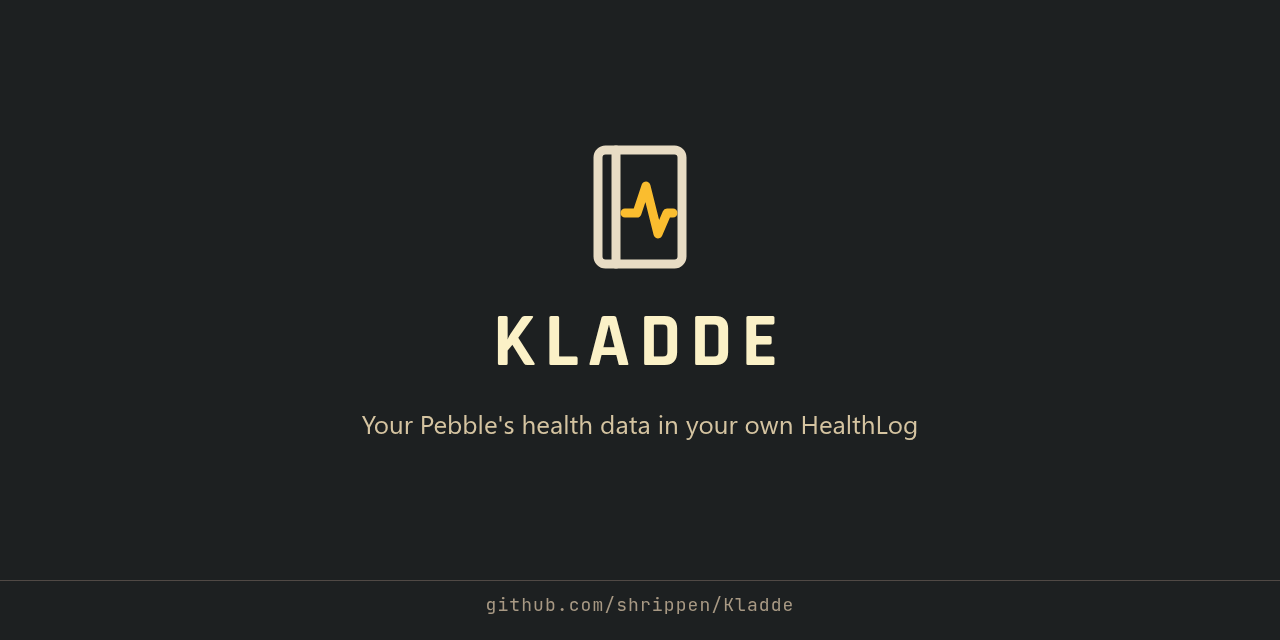
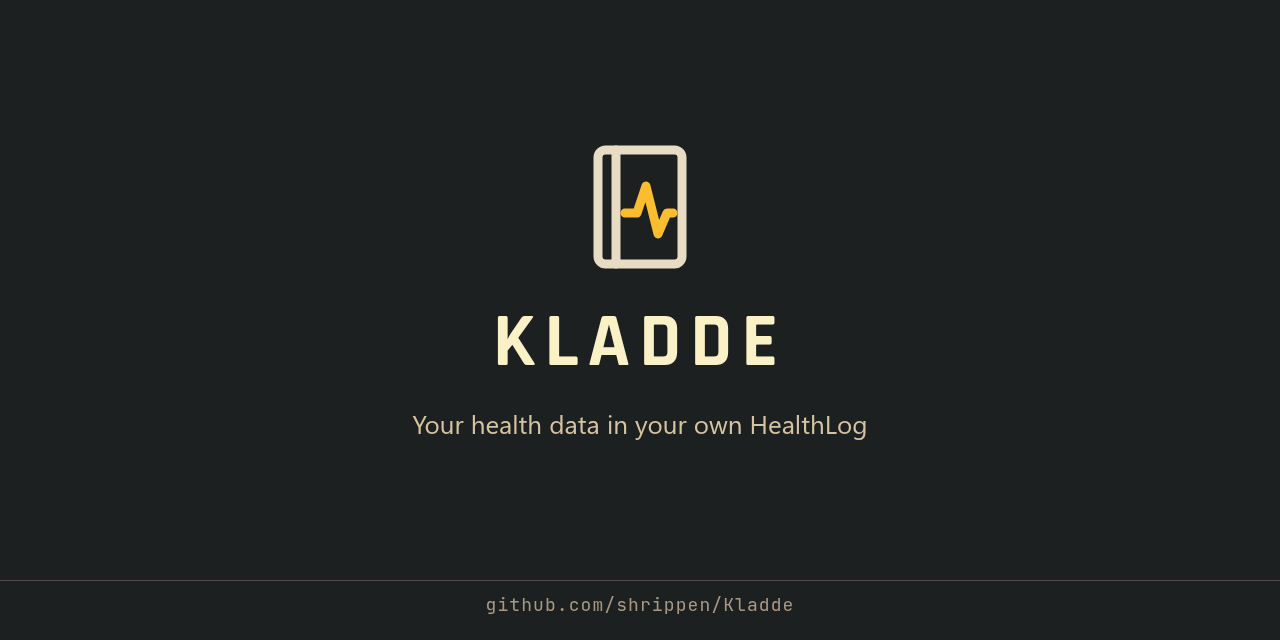
Datenquellen im Text (#10)
Android: Health Connect (nur Pebble-App), Plasma Mobile später direkt von der Pebble; Strecke und Ruhepuls schreibt die Pebble-App nicht. Dazu die Review-Korrekturen aus #9.

Changed region(s): [[0.2812, 0.6562, 0.7188, 0.6875]]

diff --git a/docs/index.html b/docs/index.html
@@ -3,10 +3,10 @@
 <head>
 <meta charset="utf-8">
 <meta name="viewport" content="width=device-width,initial-scale=1">
-<title>Kladde — your Pebble's health data in your own HealthLog</title>
-<meta name="description" content="An Android app that brings what your Pebble writes to Health Connect into your own HealthLog instance, in the background, and shows your values on the phone.">
-<meta property="og:title" content="Kladde — your Pebble's health data in your own HealthLog">
-<meta property="og:description" content="An Android app that brings what your Pebble writes to Health Connect into your own HealthLog instance, in the background, and shows your values on the phone.">
+<title>Kladde — your health data in your own HealthLog</title>
+<meta name="description" content="Brings your health data into your own HealthLog instance, in the background: on Android from Health Connect, on Plasma Mobile (later) straight from the Pebble.">
+<meta property="og:title" content="Kladde — your health data in your own HealthLog">
+<meta property="og:description" content="Brings your health data into your own HealthLog instance, in the background: on Android from Health Connect, on Plasma Mobile (later) straight from the Pebble.">
 <meta property="og:image" content="https://shrippen.github.io/Kladde/social-preview.png">
 <meta property="og:image:width" content="1280">
 <meta property="og:image:height" content="640">
@@ -39,8 +39,8 @@
   <img class="hero-wm" src="icon-mono.svg" alt="" aria-hidden="true">
   <div class="hero-main">
     <h1>Kladde</h1>
-    <p class="tagline" lang="en">Kladde brings what your Pebble writes to Health Connect into your own HealthLog instance: steps, heart rate, resting heart rate and sleep, in the background, without a cloud in between. On the phone it shows your values and lets you log weight, blood pressure and mood.</p>
-    <p class="tagline" lang="de">Kladde bringt, was deine Pebble nach Health Connect schreibt, in deine eigene HealthLog-Instanz: Schritte, Herzfrequenz, Ruhepuls und Schlaf, im Hintergrund, ohne Cloud dazwischen. Auf dem Telefon zeigt es deine Werte und nimmt Gewicht, Blutdruck und Stimmung auf.</p>
+    <p class="tagline" lang="en">Kladde brings your health data into your own HealthLog instance, in the background, without a cloud in between: on Android from Health Connect, on Plasma Mobile (later) straight from the Pebble. On the phone it shows your values and lets you log weight, blood pressure and mood.</p>
+    <p class="tagline" lang="de">Kladde bringt deine Gesundheitsdaten im Hintergrund in deine eigene HealthLog-Instanz, ohne Cloud dazwischen: auf Android aus Health Connect, auf Plasma Mobile (später) direkt von der Pebble. Auf dem Telefon zeigt es deine Werte und nimmt Gewicht, Blutdruck und Stimmung auf.</p>
   </div>
 
   <div class="hero-side">
@@ -68,8 +68,8 @@
   <div class="feat" data-tier="yellow">
     <span class="feat-tag"><span lang="en">Sync</span><span lang="de">Abgleich</span></span>
     <h3 lang="en">From the watch to your server</h3><h3 lang="de">Von der Uhr auf deinen Server</h3>
-    <p lang="en">Steps as daily totals, distance, heart rate in 10-minute blocks, resting heart rate and sleep with its stages. Only what the Pebble app wrote, so nothing counts twice.</p>
-    <p lang="de">Schritte als Tagessummen, Strecke, Herzfrequenz in 10-Minuten-Blöcken, Ruhepuls und Schlaf mit seinen Phasen. Nur, was die Pebble-App geschrieben hat, damit nichts doppelt zählt.</p>
+    <p lang="en">Steps as daily totals, heart rate in 10-minute blocks and sleep with its stages. From Health Connect only what the Pebble app wrote, so nothing counts twice; it writes no distance or resting heart rate.</p>
+    <p lang="de">Schritte als Tagessummen, Herzfrequenz in 10-Minuten-Blöcken und Schlaf mit seinen Phasen. Aus Health Connect nur, was die Pebble-App geschrieben hat, damit nichts doppelt zählt; Strecke und Ruhepuls schreibt sie nicht.</p>
   </div>
   <div class="feat" data-tier="blue">
     <span class="feat-tag"><span lang="en">Background</span><span lang="de">Hintergrund</span></span>
@@ -171,7 +171,7 @@
     <div class="foot-brand">
       <img src="icon.svg" alt="">
       <div><span class="foot-name">Kladde</span>
-        <span class="foot-tag"><span lang="en">Your Pebble's health data in your own HealthLog</span><span lang="de">Die Gesundheitsdaten deiner Pebble in deinem eigenen HealthLog</span></span></div>
+        <span class="foot-tag"><span lang="en">Your health data in your own HealthLog</span><span lang="de">Deine Gesundheitsdaten in deinem eigenen HealthLog</span></span></div>
     </div>
     <nav class="foot-cols" aria-label="Footer">
       <div><h4><span lang="en">Project</span><span lang="de">Projekt</span></h4>

diff --git a/docs/README.de.md b/docs/README.de.md
@@ -2,24 +2,25 @@
 
 # Kladde
 
-_Die Gesundheitsdaten deiner Pebble in deinem eigenen HealthLog_
+_Deine Gesundheitsdaten in deinem eigenen HealthLog_
 
-Kladde ist eine Android-App, die, was deine **Pebble** nach **Health Connect** schreibt, im Hintergrund in deine eigene
-[HealthLog](https://healthlog.dev)-Instanz bringt und deine Werte auf dem Telefon zeigt. Später läuft sie auf
-**Plasma Mobile** und liest die Uhr direkt. Eine Qt-/Kirigami-App im Design [Kante](https://github.com/shrippen/Kante)
+Kladde bringt deine Gesundheitsdaten im Hintergrund in deine eigene [HealthLog](https://healthlog.dev)-Instanz und
+zeigt deine Werte auf dem Telefon. Auf **Android** kommen die Daten aus **Health Connect**, auf **Plasma Mobile**
+(später) direkt von der **Pebble**. Eine Qt-/Kirigami-App im Design [Kante](https://github.com/shrippen/Kante)
 für beide. [English](../README.md) · [Landing Page](https://shrippen.github.io/Kladde/)
 
 ## Was abgeglichen wird
 
-Nur Datensätze der Pebble-App (`coredevices.coreapp`), damit nichts doppelt zählt. HealthLogs Batch-Endpunkt spricht
-HealthKit, darum kommen die Werte in Apples Einheiten und mit der Quelle „Apple Health“ an.
+Auf Android liest Kladde Health Connect, dort nur die Datensätze der Pebble-App (`coredevices.coreapp`), damit nichts
+doppelt zählt. Was die Pebble-App nicht schreibt, bleibt draußen: derzeit schreibt sie weder Strecke noch Ruhepuls. HealthLogs Batch-Endpunkt spricht HealthKit, darum kommen die Werte in Apples Einheiten und mit der Quelle
+„Apple Health“ an.
 
 | Health Connect | In HealthLog | Wie |
 |---|---|---|
 | Schritte | Schritte | eine Summe je Tag (Ortszeit), bei jedem Lauf der ganze Tag |
-| Strecke | Geh- und Laufstrecke | eine Summe je Tag, in Metern |
+| Strecke | Geh- und Laufstrecke | eine Summe je Tag, in Metern (wenn die Quelle sie schreibt) |
 | Herzfrequenz | Puls | 10-Minuten-Blöcke mit Mittel, Minimum und Maximum |
-| Ruhepuls | Ruhepuls | ein Eintrag je Messung |
+| Ruhepuls | Ruhepuls | ein Eintrag je Messung (wenn die Quelle ihn schreibt) |
 | Schlaf mit Phasen | Schlaf | Minuten je Phase (wach, Kern, tief, REM) |
 
 ## Die App
@@ -38,16 +39,18 @@ HealthKit, darum kommen die Werte in Apples Einheiten und mit der Quelle „Appl
 ## So funktioniert es (kurz)
 
 ```
-app/        Kirigami-Oberfläche (QML mit Kante)
+app/          Kirigami-Oberfläche (QML mit Kante)
   ↓
-core/       Abbildung, Batches, Warteschlange, HealthLog-Client   (nur Qt Core + Network)
-  ↑
-Quellen     Health Connect (Kotlin, Android) | Pebble-Daemon (D-Bus, Linux, später)
+core/         HealthLog-Client (Anmeldung, Werte, Erfassen), Abbildung, Batches
+              (nur Qt Core + Network; auch kladde-push, später der Pebble-Daemon)
+
+android/sync  Kotlin, nur Android: der Abgleich aus Health Connect im Hintergrund
 ```
 
-Das Kotlin-Modul `android/sync` liest Health Connect in einem WorkManager-Job und gibt die Datensätze in einem
-neutralen Austauschformat (`core/hcjson.h`) an `core/`; `core/` bildet sie auf HealthKit-Einträge ab und schickt sie an
-`/api/measurements/batch`. Anforderungen: [lastenheft.md](lastenheft.md), Plan: [plan.md](plan.md).
+Auf Android liest das Kotlin-Modul `android/sync` Health Connect in einem WorkManager-Job, bildet die Datensätze ab wie
+`core/mapper.cpp` (gemeinsame Fixtures halten beide gleich), reiht sie ein und schickt sie an `/api/measurements/batch`.
+`core/` bildet ab und schickt für `kladde-push` (ohne Warteschlange: es hört beim ersten Fehler auf) und später den Pebble-Daemon.
+Anforderungen: [lastenheft.md](lastenheft.md), Plan: [plan.md](plan.md).
 
 ## Installieren
 

diff --git a/README.md b/README.md
@@ -2,24 +2,25 @@
 
 # Kladde
 
-_Your Pebble's health data in your own HealthLog_
+_Your health data in your own HealthLog_
 
-Kladde is an Android app that brings what your **Pebble** writes to **Health Connect** into your own
-[HealthLog](https://healthlog.dev) instance, in the background, and shows your values on the phone. Later it will run on
-**Plasma Mobile** and read the watch directly. One Qt/Kirigami app in the [Kante](https://github.com/shrippen/Kante)
+Kladde brings your health data into your own [HealthLog](https://healthlog.dev) instance, in the background, and shows
+your values on the phone. On **Android** the data comes from **Health Connect**; on **Plasma Mobile** (later) it comes
+straight from the **Pebble**. One Qt/Kirigami app in the [Kante](https://github.com/shrippen/Kante)
 design for both. [Deutsch](docs/README.de.md) · [Landing page](https://shrippen.github.io/Kladde/)
 
 ## What it syncs
 
-Only records of the Pebble app (`coredevices.coreapp`), so nothing counts twice. HealthLog's batch endpoint speaks
-HealthKit, so the values arrive in Apple's units and with the source "Apple Health".
+On Android Kladde reads Health Connect, there only the records of the Pebble app (`coredevices.coreapp`), so nothing
+counts twice. A kind the Pebble app does not write stays out: today it writes no distance and no resting heart rate. HealthLog's batch endpoint speaks HealthKit, so the values arrive in Apple's units and with the source
+"Apple Health".
 
 | Health Connect | In HealthLog | How |
 |---|---|---|
 | Steps | Steps | one total per local day, the whole day on every run |
-| Distance | Walking + running distance | one total per local day, in metres |
+| Distance | Walking + running distance | one total per local day, in metres (if the source writes it) |
 | Heart rate | Pulse | 10-minute blocks with average, minimum and maximum |
-| Resting heart rate | Resting heart rate | one entry per reading |
+| Resting heart rate | Resting heart rate | one entry per reading (if the source writes it) |
 | Sleep session with stages | Sleep | minutes per stage (awake, core, deep, REM) |
 
 ## The app
@@ -36,16 +37,18 @@ HealthKit, so the values arrive in Apple's units and with the source "Apple Heal
 ## How it works (short)
 
 ```
-app/        Kirigami UI (QML with Kante)
+app/          Kirigami UI (QML with Kante)
   ↓
-core/       mapping, batches, queue, HealthLog client   (Qt Core + Network only)
-  ↑
-sources     Health Connect (Kotlin, Android) | Pebble daemon (D-Bus, Linux, later)
+core/         HealthLog client (sign-in, values, log), mapping, batches
+              (Qt Core + Network only; also kladde-push, later the Pebble daemon)
+
+android/sync  Kotlin, Android only: the background sync from Health Connect
 ```
 
-The Kotlin module `android/sync` reads Health Connect in a WorkManager job and hands the records to `core/` in a
-neutral exchange format (`core/hcjson.h`); `core/` maps them to HealthKit entries and sends them to
-`/api/measurements/batch`. Requirements: [docs/lastenheft.md](docs/lastenheft.md), plan: [docs/plan.md](docs/plan.md).
+On Android the Kotlin module `android/sync` reads Health Connect in a WorkManager job, maps the records like
+`core/mapper.cpp` (shared fixtures keep both equal), queues them and sends them to `/api/measurements/batch`.
+`core/` maps and sends for `kladde-push` (no queue: it stops at the first error) and, later, the Pebble daemon.
+Requirements: [docs/lastenheft.md](docs/lastenheft.md), plan: [docs/plan.md](docs/plan.md).
 
 ## Install
 
